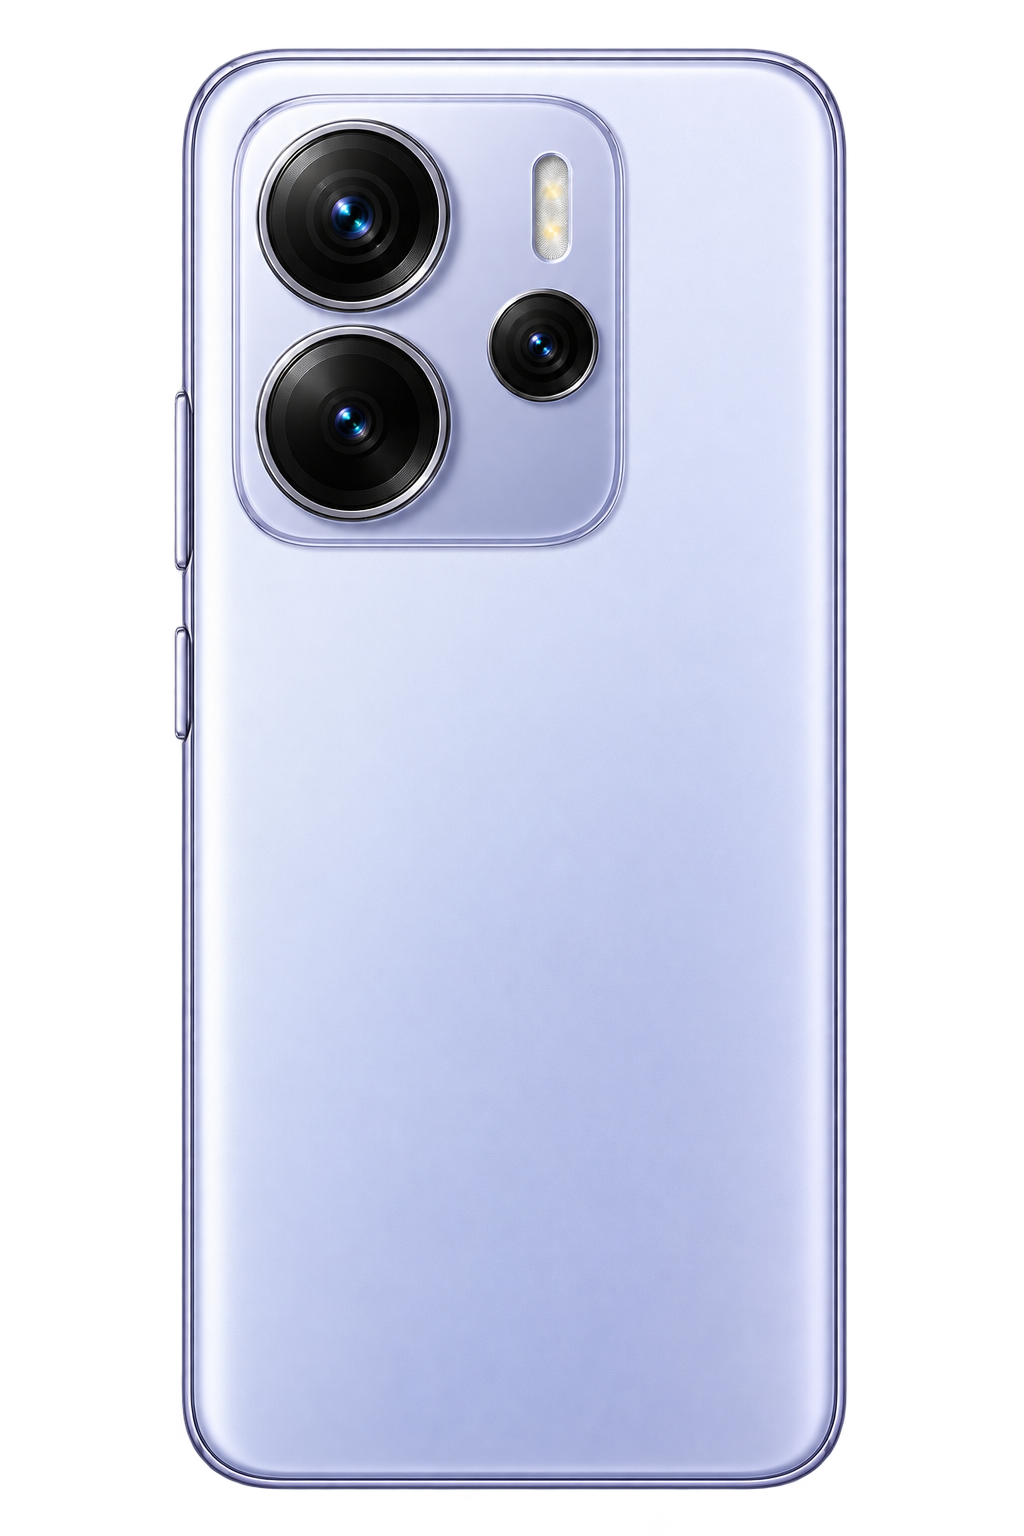
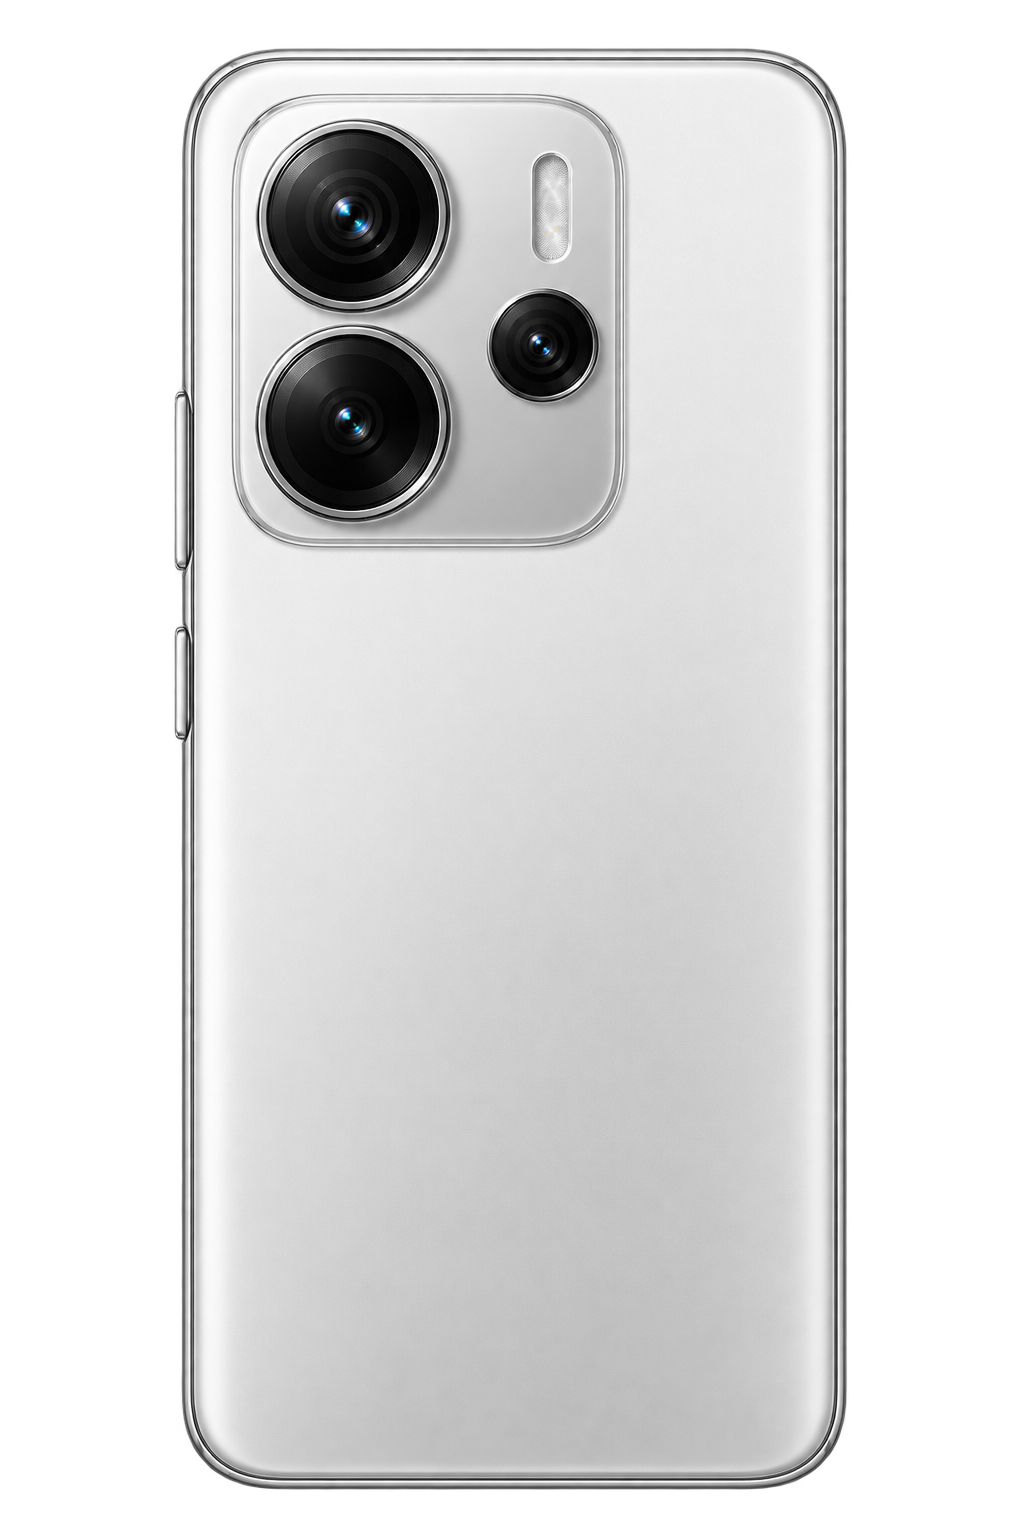
Neutralise Redmi mockup purple frame and drop cart badge glow

diff --git a/src/components/layout/SiteHeader.tsx b/src/components/layout/SiteHeader.tsx
@@ -113,7 +113,7 @@ export function SiteHeader() {
             className="relative inline-flex min-h-11 min-w-11 items-center justify-center rounded-pill p-2 transition-colors hover:bg-background focus-visible:outline focus-visible:outline-2 focus-visible:outline-offset-2 focus-visible:outline-accent lg:hidden"
           >
             <BagIcon />
-            <CartCountBadge className="absolute end-0.5 top-0.5 flex size-4 items-center justify-center rounded-pill bg-accent text-[10px] font-medium text-white shadow-accent" />
+            <CartCountBadge className="absolute end-0.5 top-0.5 flex size-4 items-center justify-center rounded-pill bg-accent text-[10px] font-medium text-white" />
           </Link>
 
           <button

diff --git a/src/components/layout/SiteSidebar.tsx b/src/components/layout/SiteSidebar.tsx
@@ -83,7 +83,7 @@ export function SiteSidebar() {
         }`}
       >
         <BagIcon />
-        <CartCountBadge className="absolute end-1 top-1 flex size-4 items-center justify-center rounded-pill bg-accent text-[10px] font-medium text-white shadow-accent" />
+        <CartCountBadge className="absolute end-1 top-1 flex size-4 items-center justify-center rounded-pill bg-accent text-[10px] font-medium text-white" />
       </Link>
     </aside>
   );

diff --git a/src/config/customize.ts b/src/config/customize.ts
@@ -68,8 +68,7 @@ export const CASE_MOCKUPS_BY_BRAND: Record<string, CaseMockupConfig> = {
   realme: { src: "/customize/case-mockup-realme.png", maxSaturation: 60 },
   redmi: {
     src: "/customize/case-mockup-redmi.png",
-    maxSaturation: 75,
-    // The tinted camera plateau is the same colour as the back.
+    // The camera plateau is the same colour as the back.
     exclude: [{ x: 232, y: 92, width: 392, height: 456, radius: 50 }],
   },
 };
